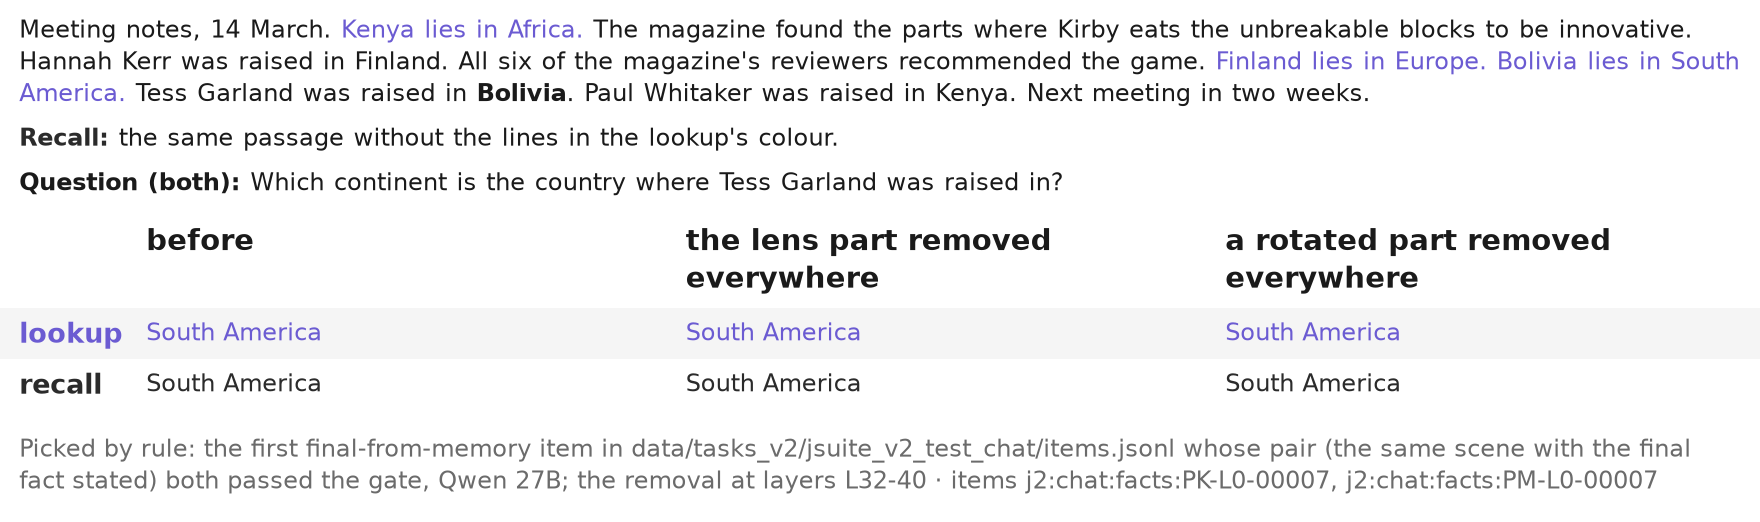
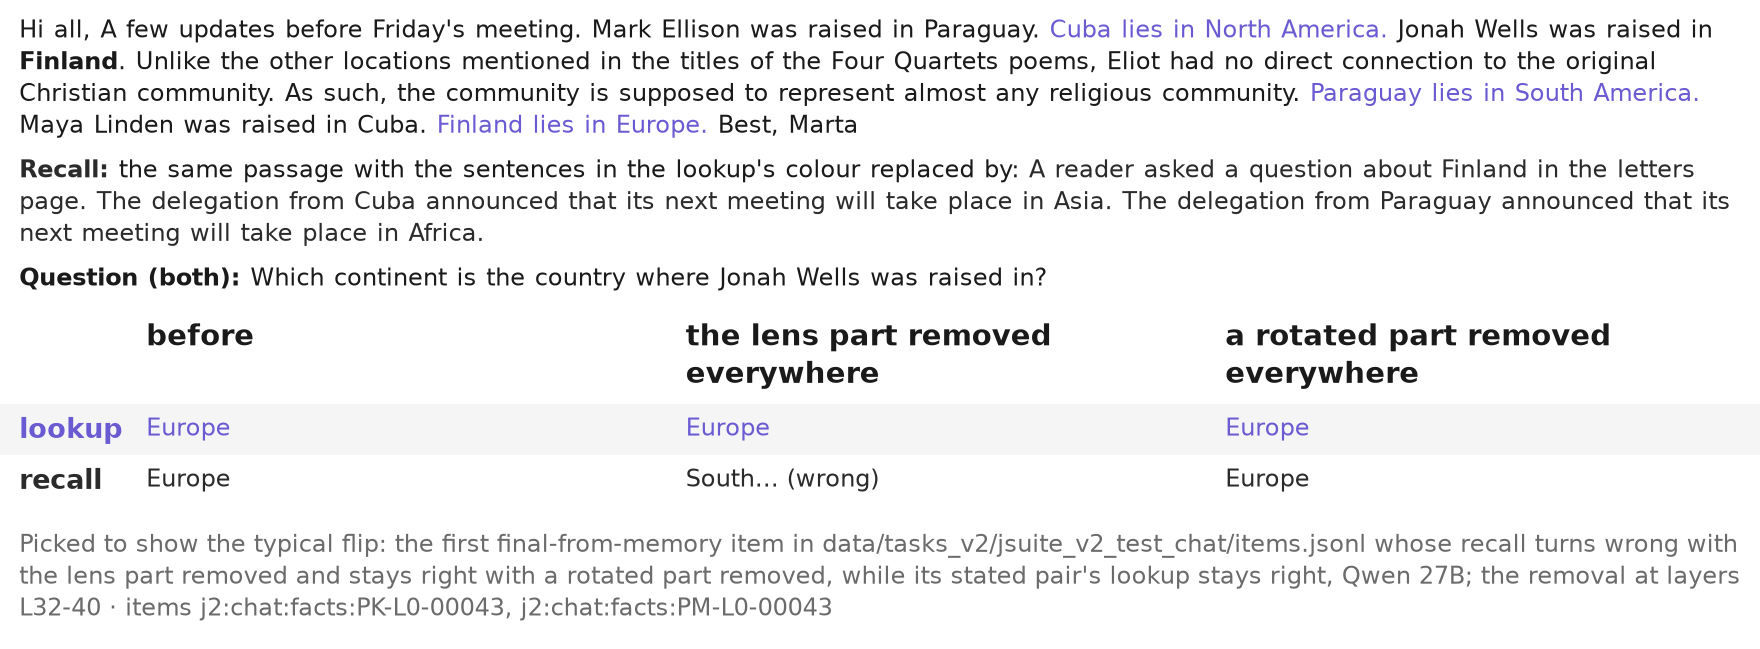
E2 shows the flip: a pair whose recall turns wrong without the lens part
Dan, 8 Nov: the rule's first pair showed no flip. E2 now takes the first
final-from-memory item whose recall turns wrong with the lens part removed and
stays right with a rotated part removed while its stated pair's lookup holds,
and says on the card and in its caption that it is picked by that outcome; the
caption keeps the population rate. The passages are compared by sentence (a
passage may be one paragraph): the lookup's stated sentences in its colour,
the recall's replacements written out, the bridge in bold where first named.

diff --git a/scripts/examples.py b/scripts/examples.py
@@ -4,7 +4,8 @@ operation, read from the per-item run files. The rule and the item id are printe
 card's population rate beside it (by key, in figures/examples/_meta/captions.toml).
 
   E1 depth   the main test (two people swap picks), Qwen 27B: results/x0_necessity/x0_necessity_27b_chat/
-  E2 breadth a fact passage with the final fact stated (lookup) and without it (recall), Qwen 27B, jsuite v2 test:
+  E2 breadth a fact passage with the final fact stated (lookup) and without it (recall), Qwen 27B, jsuite v2 test; the
+             one card picked by its outcome (Dan, 8 Nov: show a flip), said on the card, its rate in the caption:
              data/tasks_v2/jsuite_v2_test_chat/items.jsonl + results/ablate_v2/jsuite_v2_test_chat_ko_cand2_v1/rows.jsonl
   E3 chains  three three-hop chains about one entity (P → P → P, P → M → M, M → P → M), Qwen 27B: the same items file +
              results/ablate_v2/jsuite_v2_test_chat_threehop_ko_cand2_v1/rows.jsonl
@@ -121,22 +122,39 @@ def e2_fact_passage() -> sp.Figure:
     scenes: dict[str, dict] = {}
     for i in items:
         scenes.setdefault(i["scene"], {})[i["word"]] = i
+    correct = {(r["id"], r["condition"]): r["correct"] for r in rows}
+
+    def flips(pm: dict) -> bool:
+        """The pattern the card shows (Dan, 8 Nov: show a flip): both right before, the recall wrong with the lens part
+        removed and right with a rotated part removed, the lookup right throughout."""
+        pk = scenes[pm["scene"]]["PK"]
+        return (all(correct.get((pk["id"], c)) for c, _ in BREADTH_ARMS)
+                and correct.get((pm["id"], "none")) and not correct.get((pm["id"], "paper10"), True)
+                and correct.get((pm["id"], "paper10_rot")))  # fmt: skip
+
     pm = next(i for i in items if i["word"] == "PM" and "PK" in scenes[i["scene"]] and i["id"] in have
-              and scenes[i["scene"]]["PK"]["id"] in have)  # fmt: skip
+              and scenes[i["scene"]]["PK"]["id"] in have and flips(i))  # fmt: skip
     pk = scenes[pm["scene"]]["PK"]
-    stated = [ln for ln in pk["context"].split("\n") if ln not in pm["context"].split("\n")]
+    # the two passages differ sentence by sentence (a passage may be one paragraph): the lookup's states the facts the
+    # recall's replaces with filler about the same entities
+    lookup_s, recall_s = _sentences(pk["context"]), _sentences(pm["context"])
+    stated = [s for s in lookup_s if s not in recall_s]
+    filler = [s for s in recall_s if s not in lookup_s]
     repo = json.loads((KO.parent / "manifest.json").read_text())["model"]["repo"]
     passage: list[tuple] = []
-    for ln in pk["context"].split("\n"):
-        text = ln.removeprefix("- ")
-        if ln in stated:
+    bridge_done = False
+    for s in lookup_s:
+        text = s.removeprefix("- ")
+        if s in stated:
             passage.append((text + " ", "lookup"))
-        elif pm["bridge"] in text:
-            passage += [*bold(text, pm["bridge"]), (" ", None)]
+        elif pm["bridge"] in text and not bridge_done:  # the bridge in bold where the passage first names it
+            passage += [*bold(text, pm["bridge"], text.index(pm["bridge"])), (" ", None)]
+            bridge_done = True
         else:
             passage.append((text + " ", None))
     parts = [passage,
-             [("Recall:", "recall", True), (" the same passage without the lines in the lookup's colour.", None)],
+             [("Recall:", "recall", True), (" the same passage with the sentences in the lookup's colour replaced by: ",
+                                             None), (" ".join(filler), "recall")],
              [("Question (both):", None, True), (f" {pk['question']}", None)]]  # fmt: skip
     answers: dict[str, dict[str, str]] = {"lookup": {}, "recall": {}}
     for r in rows:
@@ -147,10 +165,16 @@ def e2_fact_passage() -> sp.Figure:
     card = sp.Card(prompt=parts, columns=[c for _, c in BREADTH_ARMS],
                    rows=[sp.CardRow("lookup", "lookup", answers["lookup"]),
                          sp.CardRow("recall", "recall", answers["recall"])],
-                   note=f"Picked by rule: the first final-from-memory item in {rel(ITEMS)} whose pair (the same scene "
-                        f"with the final fact stated) both passed the gate, Qwen 27B; the removal at layers "
-                        f"{_band(rows)} · items {pk['id']}, {pm['id']}")  # fmt: skip
+                   note=f"Picked to show the typical flip: the first final-from-memory item in {rel(ITEMS)} whose "
+                        f"recall turns wrong with the lens part removed and stays right with a rotated part removed, "
+                        f"while its stated pair's lookup stays right, Qwen 27B; the removal at layers {_band(rows)} · "
+                        f"items {pk['id']}, {pm['id']}")  # fmt: skip
     return sp.Figure("e2_fact_passage", vocab(), direct_labels=True).add(card)
+
+
+def _sentences(context: str) -> list[str]:
+    """A passage's lines, each split into its sentences."""
+    return [s for s in re.split(r"(?<=[.!?])\s+|\n+", context) if s.strip()]
 
 
 def _band(rows: list[dict]) -> str:
